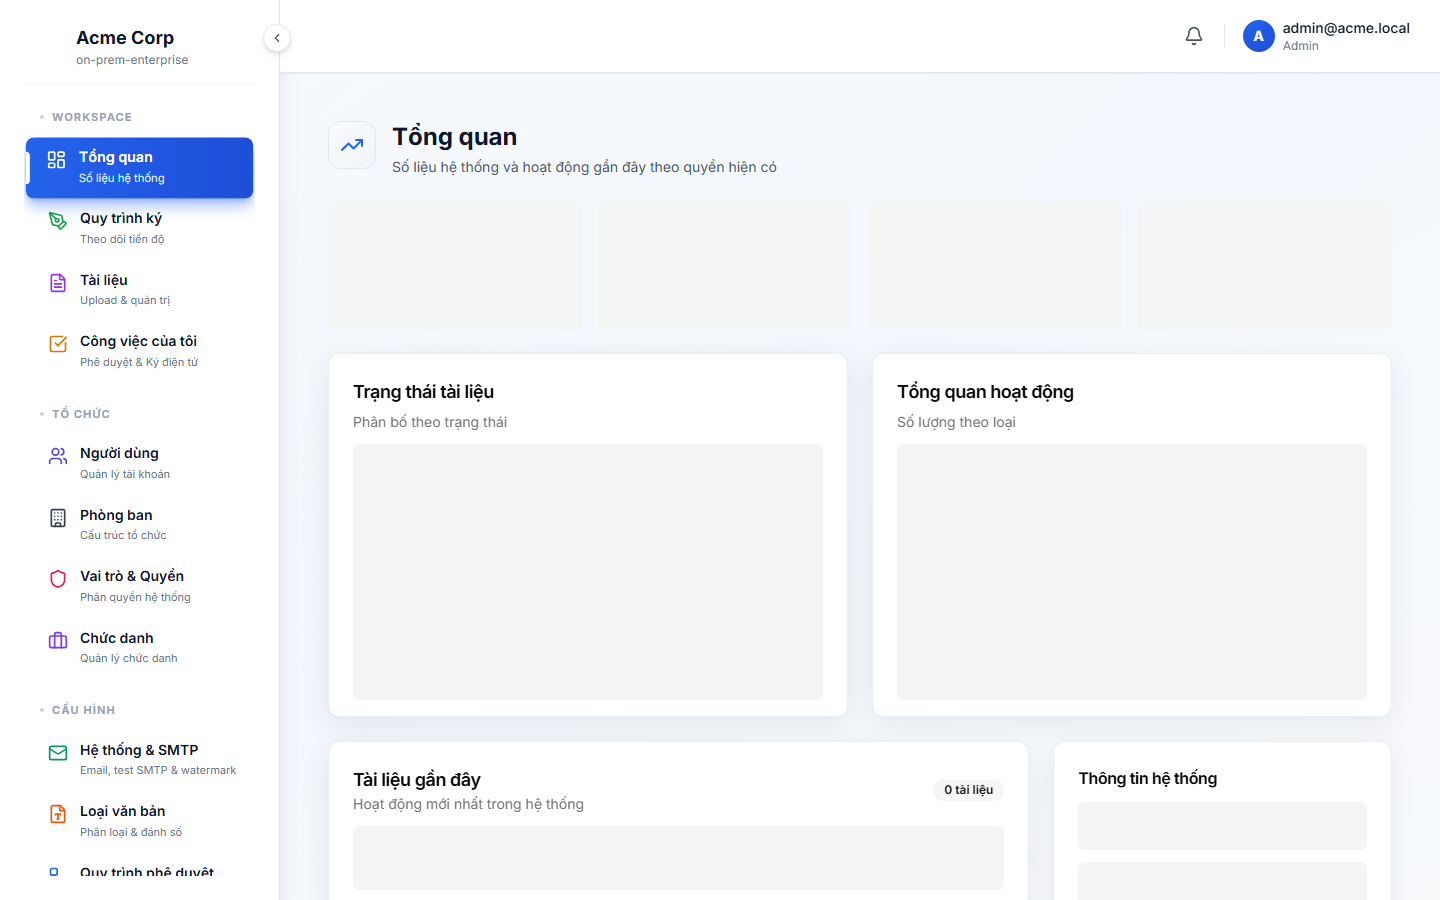
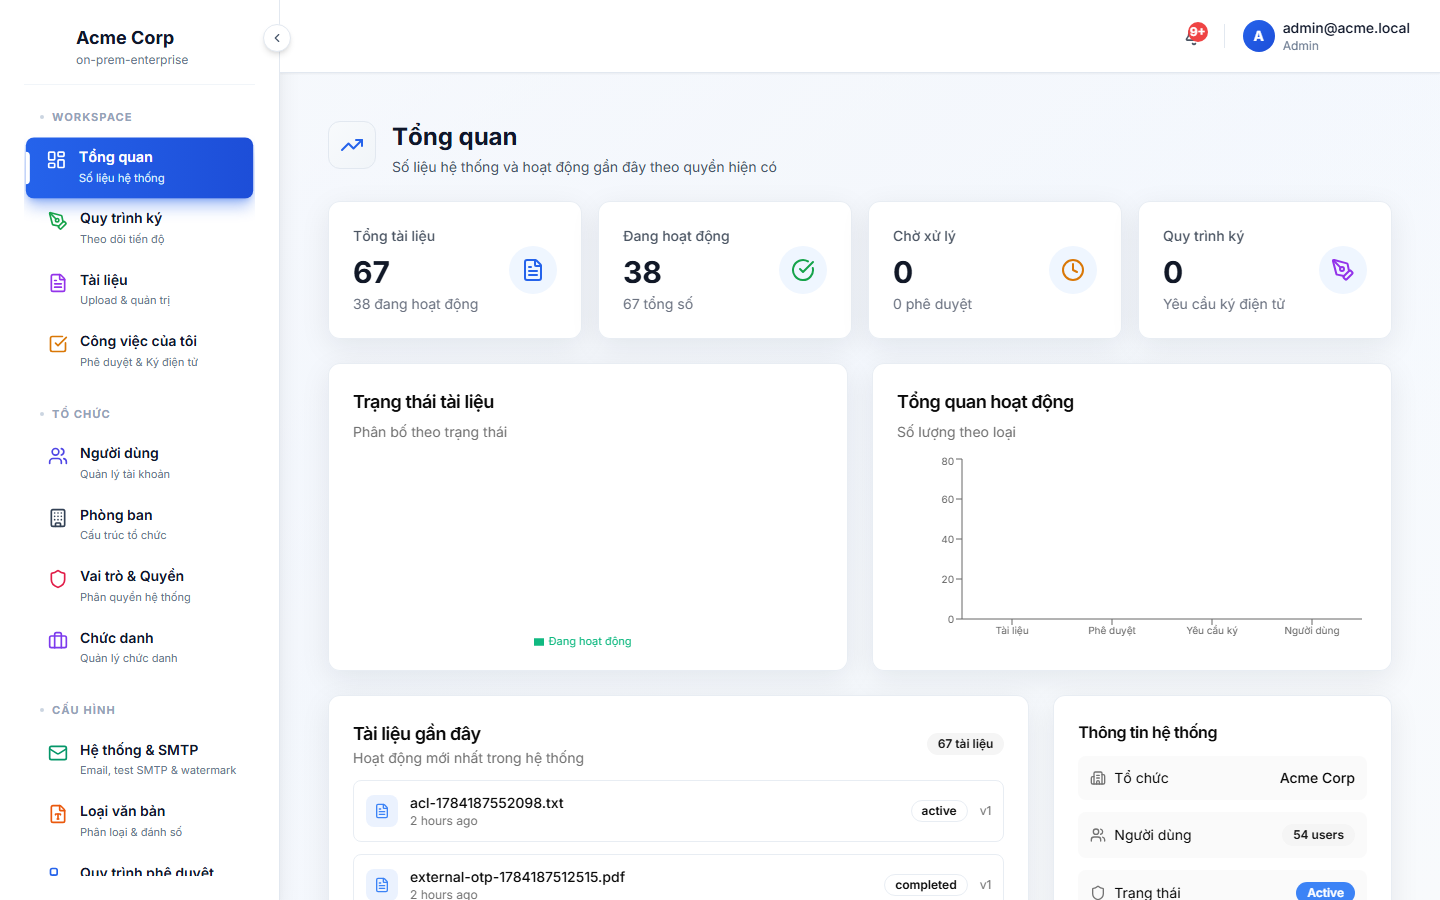
docs(readme): publish MP4 demo and loaded thumbnail

diff --git a/README.md b/README.md
@@ -73,7 +73,7 @@ Signing completion writes an outbox event. The worker generates the PDF artifact
 
 ## Demo
 
-[![Watch FlowDocker E-Office Demo](docs/assets/readme/demo/demo-thumbnail.png)](docs/assets/readme/demo/flowdocker-eoffice-demo.webm)
+[![Watch FlowDocker E-Office Demo](docs/assets/readme/demo/demo-thumbnail.png)](docs/assets/readme/demo/flowdocker-eoffice-demo.mp4)
 
 ## Architecture / Technology
 